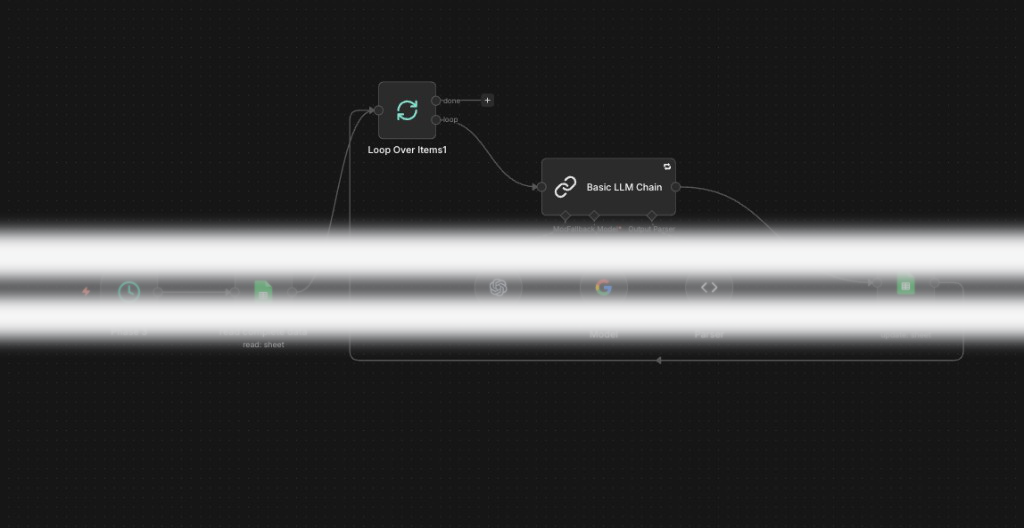
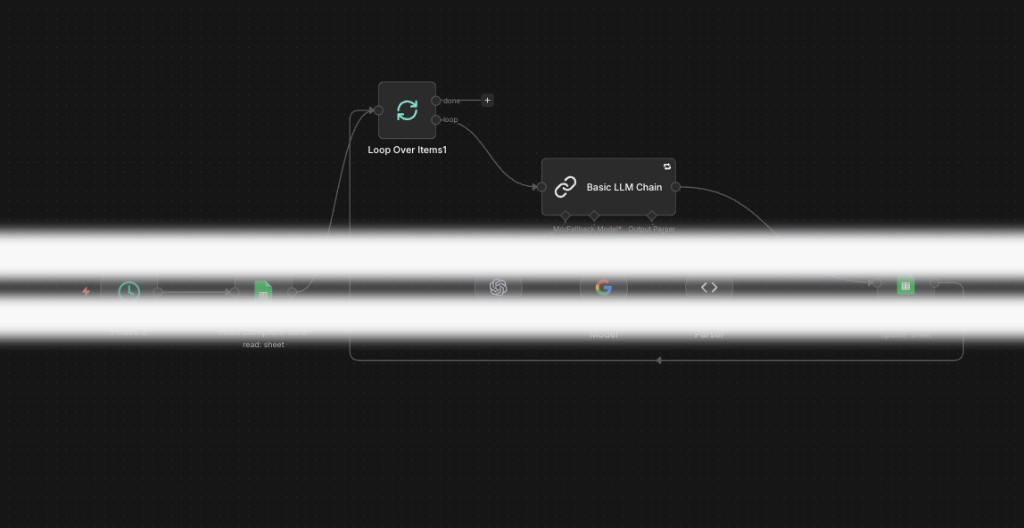
Fix n8n image blur radius2

Changed region(s): [[0.0, 0.5152, 1.0, 0.5758]]

diff --git a/scripts/mask-workflow-subtext.py b/scripts/mask-workflow-subtext.py
@@ -7,7 +7,7 @@ Each run copies from assets/n8n-workflow-originals/ first (when present), then a
 
   python3 scripts/mask-workflow-subtext.py
 
-Edit MASK_SPECS / BLUR_RADIUS / MASK_FEATHER to taste.
+Edit MASK_SPECS / BLUR_RADIUS (0 = no blur) / DIM_OVERLAY_ALPHA / MASK_FEATHER.
 """
 
 from __future__ import annotations
@@ -33,10 +33,10 @@ MASK_SPECS: dict[str, list[tuple[float, float, float, float]]] = {
     ],
 }
 
-# Light touch: strong values read like heavy censorship on thumbnails.
-BLUR_RADIUS = 1
-MASK_FEATHER = 8
-DIM_OVERLAY_ALPHA = 10  # 0 = skip darken; was 28 (too heavy)
+# Near-original look: no blur; only a faint dim on URL strips.
+BLUR_RADIUS = 0
+MASK_FEATHER = 6
+DIM_OVERLAY_ALPHA = 7
 
 
 def build_soft_mask(size: tuple[int, int], rects_norm: list[tuple[float, float, float, float]]) -> Image.Image:
@@ -52,9 +52,12 @@ def build_soft_mask(size: tuple[int, int], rects_norm: list[tuple[float, float, 
 
 def mask_image(path: Path, rects_norm: list[tuple[float, float, float, float]]) -> None:
     im = Image.open(path).convert("RGBA")
-    blurred = im.filter(ImageFilter.GaussianBlur(BLUR_RADIUS))
     mask = build_soft_mask(im.size, rects_norm)
-    out = Image.composite(blurred, im, mask)
+    if BLUR_RADIUS > 0:
+        blurred = im.filter(ImageFilter.GaussianBlur(BLUR_RADIUS))
+        out = Image.composite(blurred, im, mask)
+    else:
+        out = im.copy()
     if DIM_OVERLAY_ALPHA > 0:
         dim = Image.new("RGBA", im.size, (12, 14, 20, DIM_OVERLAY_ALPHA))
         out = Image.composite(dim, out, mask)
